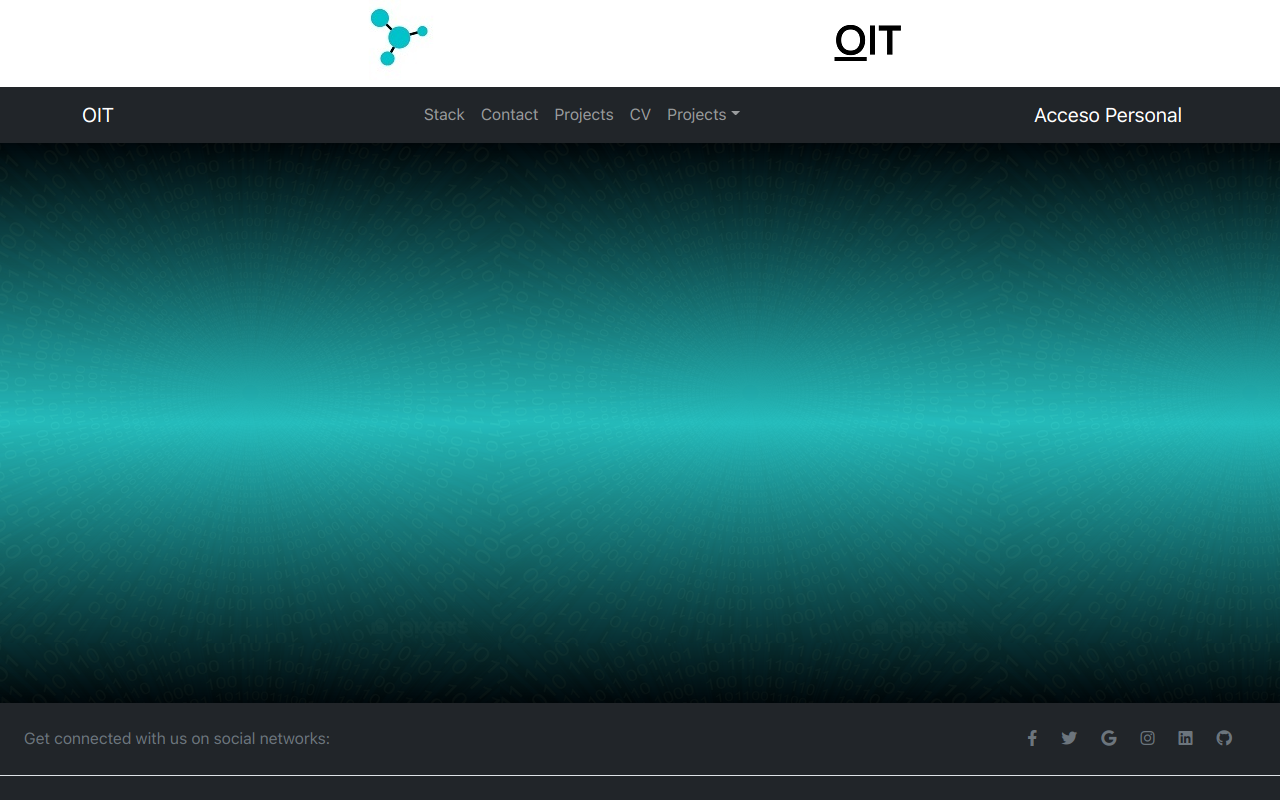
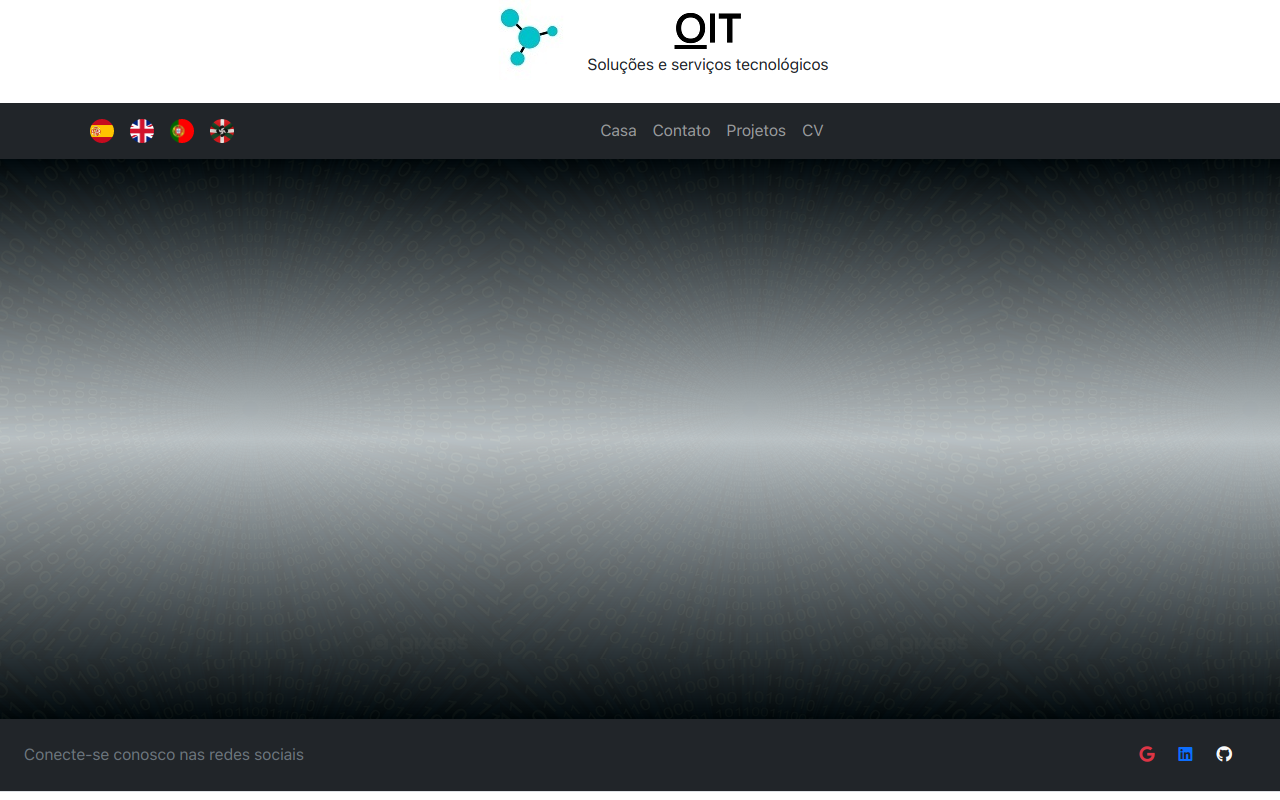
i18n ok

diff --git a/src/core/Components/Navbar/Navbar.jsx b/src/core/Components/Navbar/Navbar.jsx
@@ -1,29 +1,37 @@
 import "bootstrap/dist/css/bootstrap.min.css";
-import './Navbar.scss';
-import I18n from '../../../context/i18n/I18n';
-import { IntlProvider, FormattedMessage} from "react-intl";
+import "./Navbar.scss";
+import I18n from "../../../context/i18n/I18n";
+import { IntlProvider, FormattedMessage } from "react-intl";
 
 import { Nav, Navbar, Container, NavDropdown } from "react-bootstrap";
-import text from '../../../assets/images/logoText.png';
+import text from "../../../assets/images/logoText.png";
 import Avatar from "@mui/material/Avatar";
 import logo4 from "../../../assets/images/logo.jpg";
 
 import { useContext } from "react";
+import { Link } from "react-router-dom";
 const Menu = () => {
-
   return (
     <Navbar collapseOnSelect expand="lg" bg="dark" variant="dark">
       <Container>
         {/* <Navbar.Brand href="/" className="logo"> */}
-        <I18n/>
+        <I18n />
         {/* </Navbar.Brand> */}
         <Navbar.Toggle aria-controls="responsive-navbar-nav" />
         <Navbar.Collapse id="responsive-navbar-nav">
-          <Nav className="mx-auto" >
-          <Nav.Link href="/"><FormattedMessage id="app.home"/></Nav.Link>          
-          <Nav.Link href="/contact"><FormattedMessage id="app.contact"/></Nav.Link>
-          <Nav.Link href="/projects"><FormattedMessage id="app.projects"/></Nav.Link>
-            <Nav.Link href="/cv">CV</Nav.Link>
+          <Nav className="mx-auto">
+            <Nav.Link as={Link} to={"/"} routerLinkActive="active">
+              <FormattedMessage id="app.home" />
+            </Nav.Link>
+            <Nav.Link as={Link} to={"/contact"} routerLinkActive="active">
+              <FormattedMessage id="app.contact" />
+            </Nav.Link>
+            <Nav.Link as={Link} to={"/projects"} routerLinkActive="active">
+              <FormattedMessage id="app.projects" />
+            </Nav.Link>
+            <Nav.Link as={Link} to={"/cv"} routerLinkActive="active">
+              CV
+            </Nav.Link>
             {/* <Nav.Link href="/stack">Stack</Nav.Link> */}
             {/* <NavDropdown title="Projects" id="collasible-nav-dropdown">
               <NavDropdown.Item href="#action/3.1">Action</NavDropdown.Item>
@@ -36,13 +44,6 @@ const Menu = () => {
                 Separated link
               </NavDropdown.Item>
             </NavDropdown> */}
-        
-          </Nav>
-          <Nav>
-          
-            <Nav.Link eventKey={2} href="#memes">
-            
-            </Nav.Link>
           </Nav>
         </Navbar.Collapse>
       </Container>

diff --git a/src/pages/Home/Components/AlertButton/AlertButton.jsx b/src/pages/Home/Components/AlertButton/AlertButton.jsx
@@ -1,6 +1,8 @@
+
 import { useEffect, useState } from "react";
 import { Button } from "react-bootstrap";
 import { IntlProvider, FormattedMessage } from "react-intl";
+import { Link } from "react-router-dom";
 
 
 
@@ -36,6 +38,7 @@ export default function Alert() {
               >
                 Stack
               </Button> */}
+              <Link as={Link} to={"/projects"}>
               <Button
                 variant="contained"
                 //color="primary"
@@ -49,7 +52,10 @@ export default function Alert() {
                 }}
               >
                 <FormattedMessage id="app.projects"/>
-              </Button> <Button
+              </Button>
+              </Link>
+              <Link as={Link} to={"/cv"}>
+               <Button
                 variant="contained"
                 //color="primary"
                 type="submit"
@@ -63,6 +69,7 @@ export default function Alert() {
               >
                 CV
               </Button>
+              </Link> 
         </div>
       ) : (
         <div></div>

diff --git a/src/pages/Projects/Proyects.jsx b/src/pages/Projects/Proyects.jsx
@@ -125,7 +125,6 @@ export default function RecipeReviewCard() {
                     border: 1,
                     //borderColor:"red",
                     borderRadius:2,
-                    
                     backgroundColor:"#80deea",
                      }}>
                       {o.name === "Git" && (
